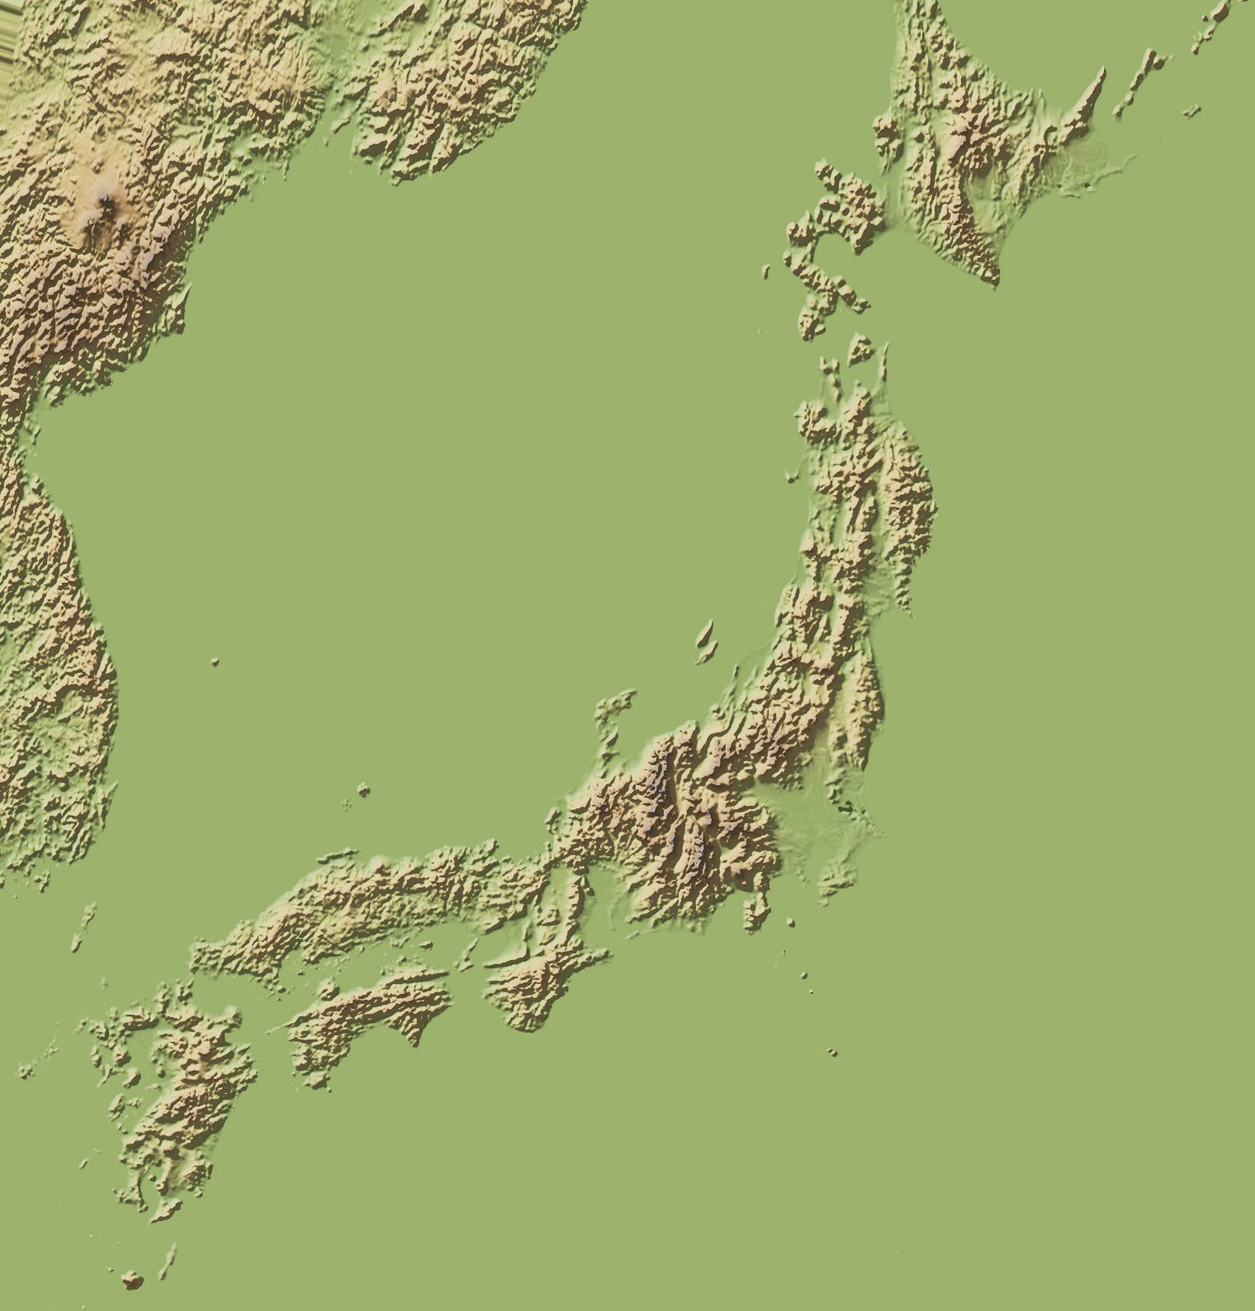
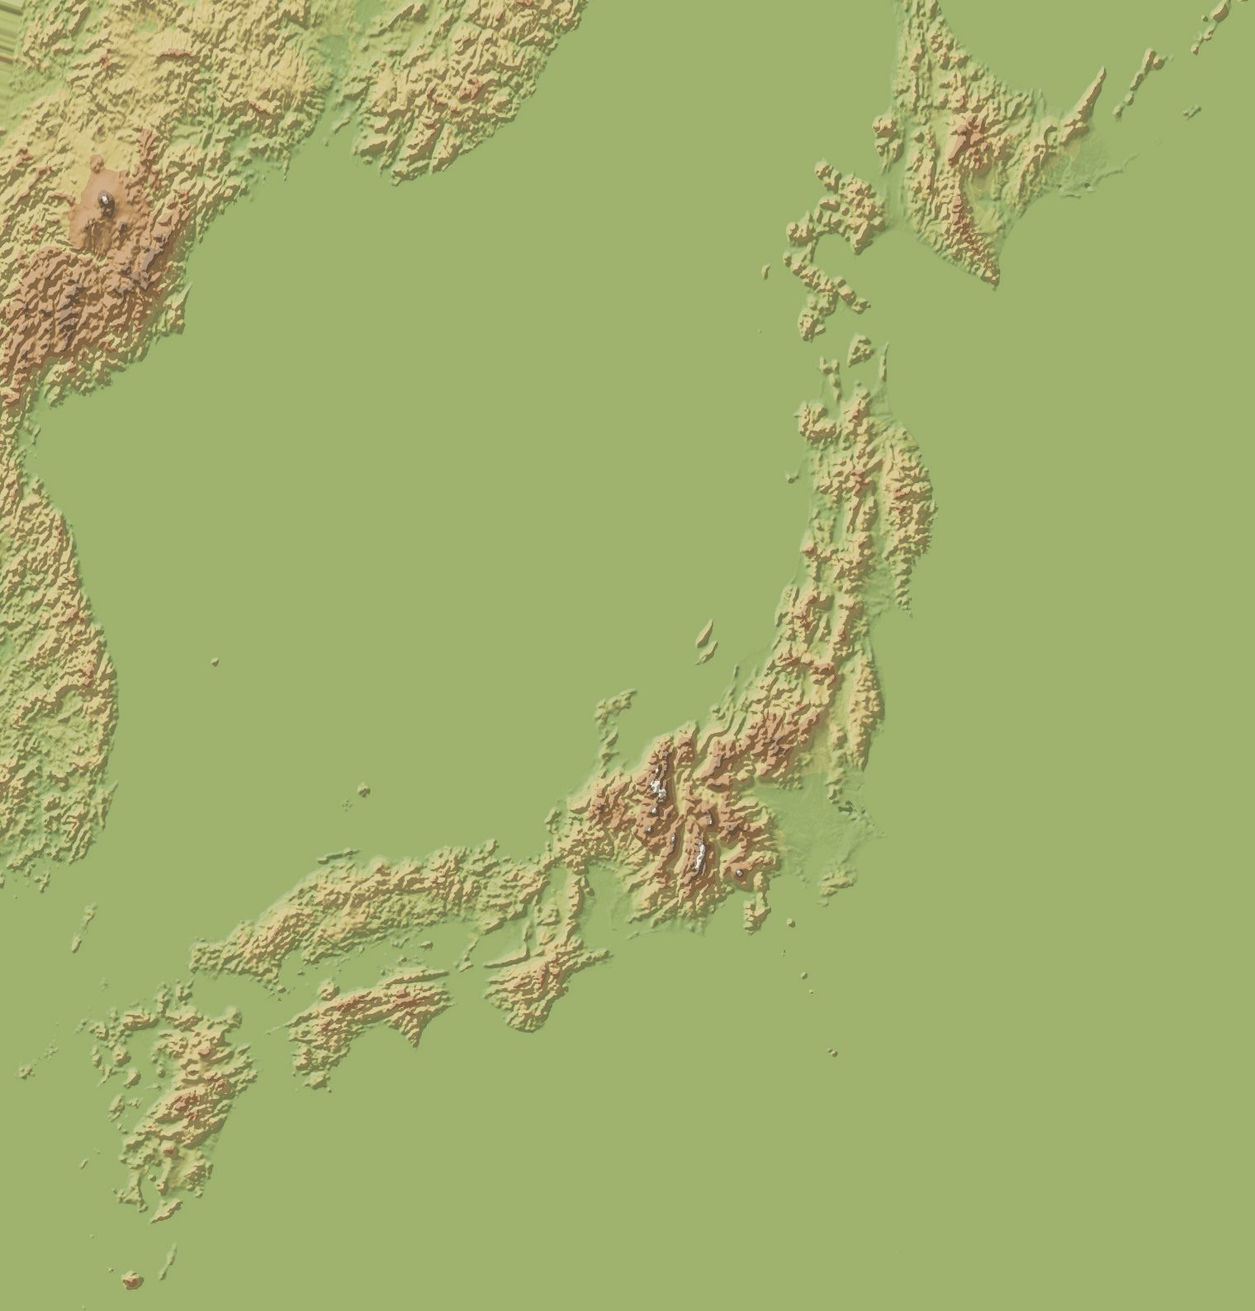
Review fixes: red only for war, kasuri finer, waves fixed on screen, Hokkaido framed, crest/label collisions, banded terrain with the weave
Claude-Session: https://claude.ai/code/session_01QoBUQRnQ7o4mLERGEaToC2

diff --git a/app.js b/app.js
@@ -58,29 +58,30 @@
     const key = h.map(x => x || 'none').join('-');
     if (!splitIds.has(key)) {
       const id = 'split-' + key;
-      const W = 22, pat = el('pattern', { id, patternUnits: 'userSpaceOnUse', width: W, height: W, patternTransform: 'rotate(38)' }, defs);
+      const W = 14, pat = el('pattern', { id, patternUnits: 'userSpaceOnUse', width: W, height: W, patternTransform: 'rotate(38)' }, defs);
       el('rect', { width: W, height: W, fill: `url(#dye-${h[0] || 'none'})` }, pat);
-      // each band of threads was dyed out of register: the edge jumps sideways every few threads, and a half-dyed
-      // feather runs past it, the blur that gives kasuri its name
-      const L = [0, 2.6, .8, 3.2, 1.4, 2.9, .3, 2], R = [1.8, 0, 3, 1, 2.4, .5, 3.2, 1.2], step = W / 8;
+      // each band of threads was dyed out of register: short broken dashes whose ends jump sideways from thread to
+      // thread, with a half-dyed feather past them, the blur that gives kasuri its name
+      const L = [0, 1.6, .5, 2.1, .9, 1.8, .2, 1.3], R = [1.1, 0, 1.9, .6, 1.5, .3, 2, .8], GAP = [-1, 3, -1, -1, 2, -1, 4, -1], step = W / 8;
       let d = '', f = '';
       for (let i = 0; i < 8; i++) {
-        const y0 = i * step, y1 = y0 + step + .03, l = 9.5 + L[i], r = 19.5 + R[i];
-        d += `M${l} ${y0}H${r}V${y1}H${l}Z`;
-        f += `M${l - 1.6} ${y0 + step * .3}H${l}V${y0 + step * .7}H${l - 1.6}ZM${r} ${y0 + step * .2}H${r + 1.8}V${y0 + step * .6}H${r}Z`;
+        const y0 = i * step, y1 = y0 + step + .03, l = 5.5 + L[i], r = 12 + R[i], g = GAP[i];
+        d += g < 0 ? `M${l} ${y0}H${r}V${y1}H${l}Z` : `M${l} ${y0}H${l + g}V${y1}H${l}ZM${l + g + 1.2} ${y0}H${r}V${y1}H${l + g + 1.2}Z`;
+        f += `M${l - 1.1} ${y0 + step * .3}H${l}V${y0 + step * .7}H${l - 1.1}ZM${r} ${y0 + step * .2}H${r + 1.2}V${y0 + step * .6}H${r}Z`;
       }
       el('path', { d: f, fill: `url(#dye-${h[1] || 'none'})`, opacity: .55 }, pat);
       el('path', { d, fill: `url(#dye-${h[1] || 'none'})` }, pat);
+      el('rect', { width: W, height: W, fill: '#e2d9c5', opacity: .16 }, pat); // the two dyes taken partway back toward cotton
       splitIds.set(key, `url(#${id})`);
     }
     return splitIds.get(key);
   }
   // crests come as black drawings; this keeps their dark parts as cream cotton the dye never reached
   {
-    const f = el('filter', { id: 'resist', 'color-interpolation-filters': 'sRGB' }, defs);
+    const f = el('filter', { id: 'resist', x: 0, y: 0, width: 1, height: 1, 'color-interpolation-filters': 'sRGB' }, defs);
     el('feColorMatrix', { type: 'matrix', values: '0 0 0 0 .937  0 0 0 0 .902  0 0 0 0 .827  -.33 -.33 -.33 1 0' }, f);
     // for crests drawn white on a dark ground: only the light parts resist; green alone keeps grey figures and drops coloured grounds like Mori's red
-    const g = el('filter', { id: 'resist-inv', 'color-interpolation-filters': 'sRGB' }, defs);
+    const g = el('filter', { id: 'resist-inv', x: 0, y: 0, width: 1, height: 1, 'color-interpolation-filters': 'sRGB' }, defs);
     el('feColorMatrix', { type: 'matrix', values: '0 0 0 0 .937  0 0 0 0 .902  0 0 0 0 .827  0 2.2 0 0 -.45' }, g);
     // for crests cut as holes in a dark square: the holes resist; the region stops at the image's own box
     const h = el('filter', { id: 'resist-holes', x: 0, y: 0, width: 1, height: 1, 'color-interpolation-filters': 'sRGB' }, defs);
@@ -177,6 +178,11 @@
 
   // ---------- zoom and pan ----------
   const HOME = (v => ({ x: v.x, y: v.y, width: v.width, height: v.height }))(svg.viewBox.baseVal);
+  const HIST_HOME = { ...HOME }, LAND_HOME = (() => { // the realm plus all of Ezo, so Sapporo and Shiretoko are in view
+    const a = land.getBBox(), b = ezo.getBBox(), y = Math.min(a.y, b.y) - 24, y1 = a.y + a.height + 30;
+    const h = y1 - y, w = Math.max(HOME.width, h * HOME.width / HOME.height);
+    return { x: HOME.x + HOME.width - w, y, width: w, height: h };
+  })();
   const vb = { x: HOME.x, y: HOME.y, w: HOME.width, h: HOME.height };
   let zoom = 1, repaintQueued = false;
   const MAX_ZOOM = 6;
@@ -188,6 +194,7 @@
     svg.setAttribute('viewBox', `${vb.x} ${vb.y} ${vb.w} ${vb.h}`);
     zoom = HOME.width / vb.w;
     document.body.classList.toggle('zoomed', zoom > 1.05);
+    $('#seigaiha').setAttribute('patternTransform', `scale(${1 / zoom})`); // the waves keep their size on screen
     if (!repaintQueued) { repaintQueued = true; requestAnimationFrame(() => { repaintQueued = false; paintStitches(); paintBattles(); paintCastles(); paintLandmarks(); paintLabels(); }); }
   }
   function zoomAt(f, cx, cy) {
@@ -365,18 +372,21 @@
     if (landMode) { // landmark names beside their marks once there is room, then the provinces
       const mk = 6.5 * markScale();
       const pts = LANDMARKS.map(l => [l, lmAt(l)]), isCity = ([l]) => l.kind === 'city';
-      const box = ([, [x, y]]) => ({ x: x - mk, y: y - mk, width: mk * 2, height: mk * 2 });
+      const box = ([l, [x, y]]) => { const m = mk * (sel?.type === 'landmark' && sel.id === l.id ? 1.5 : 1); return { x: x - m, y: y - m, width: m * 2, height: m * 2 }; };
+      const r = svg.getBoundingClientRect(), v0 = toMap(r.left, r.top), v1 = toMap(r.right, r.bottom); // what is on screen
+      const inView = b => b.x >= v0.x && b.y >= v0.y && b.x + b.width <= v1.x && b.y + b.height <= v1.y;
+      const narrow = r.width < 600;
       // the cities are always named, in English and kanji, and may cover a smaller mark's corner; the rest once there is room
       const others = pts.filter(q => !isCity(q)).map(box);
       for (const q of pts.filter(isCity)) placed.push(box(q));
       const label = ([l, [x, y]], strictness) => {
-        const city = l.kind === 'city', fs = (city ? 13.5 : 12) / scale, gap = mk + 2 / scale;
+        const city = l.kind === 'city', fs = (city ? (narrow ? 11 : 13.5) : narrow ? 10.5 : 12) / scale, gap = mk + 2 / scale;
         for (const strict of strictness) for (const [dx, dy, anchor] of [[gap, 0, 'start'], [-gap, 0, 'end'], [0, -gap - fs * .4, 'middle'], [0, gap + fs * .9, 'middle']]) {
           const t = el('text', { class: 'prov-label lm-label' + (city ? ' city-label' : ''), x: x + dx, y: y + dy + fs * .35, 'text-anchor': anchor, 'font-size': fs, 'stroke-width': fs * (city ? .24 : .3) }, labels);
           t.textContent = l.en;
           if (city) { const j = el('tspan', { 'font-size': fs * .82, dx: fs * .3, 'font-weight': 400 }, t); j.textContent = l.ja; }
           const b = t.getBBox();
-          if (!placed.some(p => hits(b, p)) && !(strict && others.some(p => hits(b, p)))) { placed.push(b); if (!strict) over.push(b); return; }
+          if (inView(b) && !placed.some(p => hits(b, p)) && !(strict && others.some(p => hits(b, p)))) { placed.push(b); if (!strict) over.push(b); return; }
           t.remove();
         }
       };
@@ -393,6 +403,7 @@
       return;
     }
     paintCrests(st, realm0());
+    for (const c of crestsG.children) placed.push(c.getBBox());
     const mk = 7 * markScale();
     for (const b of [...battles.children, ...castlesG.children]) { const [, x, y] = b.getAttribute('transform').match(/([-\d.]+) ([-\d.]+)/).map(Number); placed.push({ x: x - mk, y: y - mk, width: mk * 2, height: mk * 2 }); }
     for (const s of stitches.querySelectorAll('.stitch:not(.under)')) {
@@ -466,11 +477,11 @@
     for (const e of EVENTS) {
       if (e.year > year || year - e.year > 3) continue;
       const age = year - e.year, [X, Y] = markAt(e);
-      const g = el('g', { class: 'battle' + (age === 0 ? ' now' : '') + (sel?.type === 'event' && sel.id === e.id ? ' sel' : ''), transform: `translate(${X} ${Y}) scale(${markScale()})`, opacity: [1, .75, .55, .4][age], tabindex: 0, role: 'button', 'aria-label': `${e.en}, ${e.year}` }, battles);
+      const g = el('g', { class: 'battle' + (e.kind === 'battle' ? '' : ' turn') + (age === 0 ? ' now' : '') + (sel?.type === 'event' && sel.id === e.id ? ' sel' : ''), transform: `translate(${X} ${Y}) scale(${markScale()})`, opacity: [1, .75, .55, .4][age], tabindex: 0, role: 'button', 'aria-label': `${e.en}, ${e.year}` }, battles);
       g.dataset.e = e.id;
       el('circle', { class: 'ring', r: 2 }, g);
       el('circle', { class: 'hit', r: 10 }, g);
-      g.insertAdjacentHTML('beforeend', stitchMark(e.kind === 'battle' ? 6 : 4.4));
+      g.insertAdjacentHTML('beforeend', eventMark(e, 6));
     }
   }
 
@@ -514,6 +525,10 @@
     }
   }
 
+  // red thread is only for war; other turning points are a knot of cotton thread
+  const warCls = e => (e.kind === 'battle' ? 'war' : 'turn');
+  const knotMark = s => `<path class="k-under" d="M0 ${-s}L${s} 0L0 ${s}L${-s} 0Z" stroke-width="${s * .55}"/><path class="k" d="M0 ${-s}L${s} 0L0 ${s}L${-s} 0Z" stroke-width="${s * .3}"/><circle r="${s * .28}" fill="#efe6d3"/>`;
+  const eventMark = (e, s) => (e.kind === 'battle' ? stitchMark(s) : knotMark(s * .8));
   // a cross-stitch in red thread: the top stitch whole, the under stitch broken where it passes beneath, a sheen on each
   function stitchMark(s) {
     const top = `M${-s} ${-s * .82}L${s} ${s * .9}`;
@@ -521,7 +536,8 @@
     const sheen = d => `<path d="${d}" stroke="#ffb29e" stroke-width="${s * .12}" stroke-linecap="round" opacity=".75" transform="translate(${-s * .08} ${-s * .08})"/>`;
     // where the thread goes down into the cloth: a small hole at each end of each stitch
     const holes = [[-s, -s * .82], [s, s * .9], [s * .92, -s], [-s * .88, s * .95]].map(([x, y]) => `<circle cx="${x}" cy="${y}" r="${s * .2}" fill="#13152f"/>`).join('');
-    return `<path class="x-under" d="${top}${under}" stroke-width="${s * .78}"/>` +
+    return `<path d="${top}${under}" stroke="#efe6d3" stroke-opacity=".5" stroke-linecap="round" fill="none" stroke-width="${s * 1.05}"/>` + // a pale halo so it never sinks into a red dye
+      `<path class="x-under" d="${top}${under}" stroke-width="${s * .78}"/>` +
       `<path class="x" d="${under}" stroke-width="${s * .42}" style="stroke:#b8402b"/>` +
       `<path class="x" d="${top}" stroke-width="${s * .42}"/>${sheen(top)}${holes}`;
   }
@@ -569,7 +585,7 @@
       ${year === 1868 ? '<p class="local">In 1868 the provinces are dyed by the side their domains took in the Boshin War.</p>' : ''}
       ${year >= 1871 ? '<p class="local">From 1871 the domains are gone: Japan is one state, governed through prefectures. The old provinces stay on the map as names.</p>' : ''}
       ${lives}
-      ${fallen.length ? `<p class="sep">Fallen, with the last year they held land <span lang="ja">滅亡</span></p><ol class="roster">${fallen.map(c => row(c, true)).join('')}</ol>` : ''}
+      ${fallen.length ? `<p class="sep">Fallen <span lang="ja">滅亡</span> · the last year they held land</p><ol class="roster">${fallen.map(c => row(c, true)).join('')}</ol>` : ''}
       <p class="note">Each province is dyed for the power that dominated it; many were shared among small lords, so this is an approximation. Click a province, a clan or a red cross for its story.<br><br>Province map: “Provinces of Japan with names” by Ash_Crow, Wikimedia Commons, CC BY 2.5. Typefaces: Shippori Mincho B1 and Zen Kaku Gothic New, SIL Open Font License.</p>`;
   }
   const lastHeldCache = {};
@@ -603,7 +619,7 @@
       <p class="sub">${p.born}–${p.died} · ${status}</p>
       <p class="lede">${esc(p.short)}</p>
       <button class="play-life" data-act="playlife"><svg viewBox="0 0 18 18" aria-hidden="true"><path d="M4 2.2v13.6L15.5 9z"/></svg>Play this life, ${Math.max(START, p.born)}–${Math.min(END, p.died)}</button>
-      <div class="block"><h4>His life <span lang="ja">生涯</span></h4><ul class="links">${p.life.map(([y, text, ev]) => `<li><button ${ev ? `data-event="${ev}"` : `data-year="${y}"`} class="${ev ? 'war ' : ''}${y <= year ? 'now' : ''}"><span class="y">${y}</span><span>${esc(text)}</span></button></li>`).join('')}</ul></div>
+      <div class="block"><h4>His life <span lang="ja">生涯</span></h4><ul class="links">${p.life.map(([y, text, ev]) => `<li><button ${ev ? `data-event="${ev}"` : `data-year="${y}"`} class="${ev ? warCls(EVENTS.find(x => x.id === ev)) + ' ' : ''}${y <= year ? 'now' : ''}"><span class="y">${y}</span><span>${esc(text)}</span></button></li>`).join('')}</ul></div>
       ${im ? `<p class="note">Portrait: ${esc(im.artist)} · ${esc(im.licence)} · Wikimedia Commons</p>` : ''}`;
   }
 
@@ -632,7 +648,7 @@
       <div class="long" hidden>${esc(k.long)}</div>
       <div class="block"><h4>Key people <span lang="ja">人物</span></h4><ul class="people">${k.people.map(([en, ja, life, note]) => `<li><b>${esc(en)}</b><span lang="ja">${ja}</span><span class="life">${life}</span><p>${esc(note)}</p>${followFor(en) ? `<button class="follow" data-follow="${followFor(en).id}">Follow this life</button>` : ''}</li>`).join('')}</ul></div>
       ${als.length ? `<div class="block"><h4>Alliances <span lang="ja">同盟</span></h4><ul class="links">${als.map(a => `<li><button data-year="${a[1]}" class="${a[1] <= year && year <= a[2] ? 'now' : ''}"><span class="y">${a[1]}</span><span>${esc(a[4])} <span lang="ja" style="color:var(--muted)">${a[5]}</span>, ${a[1]}–${a[2]}: ${esc(a[6])}</span></button></li>`).join('')}</ul></div>` : ''}
-      ${evs.length ? `<div class="block"><h4>Battles and turning points <span lang="ja">合戦</span></h4><ul class="links">${evs.map(e => `<li><button data-event="${e.id}" class="war"><span class="y">${e.year}</span><span>${esc(e.en)}</span></button></li>`).join('')}</ul></div>` : ''}
+      ${evs.length ? `<div class="block"><h4>Battles and turning points <span lang="ja">合戦</span></h4><ul class="links">${evs.map(e => `<li><button data-event="${e.id}" class="${warCls(e)}"><span class="y">${e.year}</span><span>${esc(e.en)}</span></button></li>`).join('')}</ul></div>` : ''}
       ${crestOf(c) ? `<p class="note">Crest: ${esc(crestOf(c).file.replace(/_/g, ' '))}${crestOf(c).artist ? ' by ' + esc(crestOf(c).artist) : ''} · ${esc(crestOf(c).licence)} · Wikimedia Commons</p>` : ''}`;
   }
 
@@ -648,7 +664,7 @@
       <ul class="links"><li><button data-year="${START}" class="${year >= START ? 'now' : ''}"><span class="y">${START}</span><span>${holderText(BASE[p])}${BASE_NOTES[p] ? '. ' + esc(BASE_NOTES[p]) : ''}</span></button></li>
       ${hist.map(x => `<li><button data-year="${x[0]}" class="${x[0] <= year ? 'now' : ''}"><span class="y">${x[0]}</span><span>${holderText(x[2])}${x[3] ? '. ' + esc(x[3]) : ''}</span></button></li>`).join('')}</ul></div>
       ${CASTLES.some(k => k.at === p) ? `<div class="block"><h4>Castles <span lang="ja">城</span></h4><ul class="links">${CASTLES.filter(k => k.at === p).map(k => `<li><button data-castle="${k.id}" class="${k.from <= year && year <= k.to ? 'now' : ''}"><span class="y">${k.from <= START ? 'older' : k.from}</span><span>${esc(k.en)} <span lang="ja" style="color:var(--muted)">${k.ja}</span></span></button></li>`).join('')}</ul></div>` : ''}
-      ${EVENTS.some(e => e.at === p) ? `<div class="block"><h4>Fought here <span lang="ja">合戦</span></h4><ul class="links">${EVENTS.filter(e => e.at === p).map(e => `<li><button data-event="${e.id}" class="war"><span class="y">${e.year}</span><span>${esc(e.en)}</span></button></li>`).join('')}</ul></div>` : ''}`;
+      ${EVENTS.some(e => e.at === p) ? `<div class="block"><h4>Fought here <span lang="ja">合戦</span></h4><ul class="links">${EVENTS.filter(e => e.at === p).map(e => `<li><button data-event="${e.id}" class="${warCls(e)}"><span class="y">${e.year}</span><span>${esc(e.en)}</span></button></li>`).join('')}</ul></div>` : ''}`;
     drawStrip(side.querySelector('canvas.strip'), p);
   }
 
@@ -656,7 +672,7 @@
     const e = EVENTS.find(x => x.id === id), era = eraOf(e.year, ERAS);
     const sides = [...new Set((e.sides || []).filter(Boolean))];
     side.innerHTML = `${back()}
-      <div class="head"><svg class="swatch mark" viewBox="-20 -20 40 40" aria-hidden="true" style="box-shadow:none">${stitchMark(13)}</svg><h3>${esc(e.en)}<span lang="ja">${e.ja}</span></h3></div>
+      <div class="head"><svg class="swatch mark" viewBox="-20 -20 40 40" aria-hidden="true" style="box-shadow:none">${eventMark(e, 13)}</svg><h3>${esc(e.en)}<span lang="ja">${e.ja}</span></h3></div>
       ${plate('event:' + e.id)}
       <p class="sub">${e.year} · ${era.en} ${era.n} · ${esc(P[e.at].en)} <span lang="ja">${P[e.at].ja}</span></p>
       ${sides.length ? `<div class="sides">${sides.map(c => `<button class="chip" data-clan="${c}">${swatch(c)}${clanName(c)}${e.winner === c ? '<span class="won">Won</span>' : ''}</button>`).join('')}</div>` : ''}
@@ -742,7 +758,7 @@
       ${plate('landmark:' + l.id)}
       <p class="sub">${KINDS[l.kind].one}${lmProvince(l) ? ' · ' + lmProvince(l) : ''}${l.pop ? ` · population ${esc(l.pop)}, 2020` : ''}</p>
       <p class="lede">${esc(l.short)}</p>
-      ${here.length ? `<div class="block"><h4>History in ${esc(P[p].en)}</h4><ul class="links">${here.map(e => `<li><button data-event="${e.id}" class="war"><span class="y">${e.year}</span><span>${esc(e.en)}</span></button></li>`).join('')}</ul></div>` : ''}`;
+      ${here.length ? `<div class="block"><h4>History in ${esc(P[p].en)}</h4><ul class="links">${here.map(e => `<li><button data-event="${e.id}" class="${warCls(e)}"><span class="y">${e.year}</span><span>${esc(e.en)}</span></button></li>`).join('')}</ul></div>` : ''}`;
   }
 
   // the switch between the two maps
@@ -754,6 +770,7 @@
     $('#mode-history').setAttribute('aria-pressed', !landMode);
     $('#mode-land').setAttribute('aria-pressed', landMode);
     svg.setAttribute('aria-label', landMode ? 'Japan\'s landmarks over the shape of the land' : 'The provinces of Japan, dyed by who held them');
+    Object.assign(HOME, landMode ? LAND_HOME : HIST_HOME); zoomHome();
     paintWhen(); refresh(); side.scrollTop = 0;
     requestAnimationFrame(() => { // the band comes and goes, so the map has resized
       if (!landMode) { drawWeave(); tidyBand(); }

diff --git a/index.html b/index.html
@@ -157,6 +157,12 @@ body.started #start { opacity: 0; }
 .links .y { font: 500 .84rem/1.45 var(--gothic); color: var(--muted); font-variant-numeric: tabular-nums; }
 .links .now .y, .links .now { color: var(--cream); }
 .links .war .y::before { content: ''; display: inline-block; width: 6px; height: 6px; margin-right: 6px; background: var(--war); transform: rotate(45deg); vertical-align: 1px; }
+.links .turn .y::before { content: ''; display: inline-block; width: 5px; height: 5px; margin-right: 7px; border: 1.5px solid var(--cream); transform: rotate(45deg); vertical-align: 1px; }
+.battle .k, .mark .k { stroke: var(--cream); fill: none; stroke-linejoin: round; }
+.battle .k-under, .mark .k-under { stroke: var(--kachi); stroke-opacity: .85; fill: none; stroke-linejoin: round; }
+.battle:hover .k-under, .battle.sel .k-under { stroke: var(--cream); stroke-opacity: .45; }
+.battle.turn .ring { stroke: var(--cream); }
+@media (hover: none) { #tip { display: none; } } /* on touch the panel tells the story; a tooltip would only cover names */
 .sides { display: flex; flex-wrap: wrap; gap: 6px 12px; margin-top: 1rem; }
 .chip { display: inline-flex; align-items: center; gap: 8px; font: 400 .95rem/1.2 var(--mincho); padding: 3px 8px 3px 3px; border-radius: 3px; }
 .chip:hover { background: rgba(239, 230, 211, .06); }
@@ -257,6 +263,10 @@ body.land .prov use { stroke: var(--kon); stroke-opacity: .16; }
 body.land .prov:hover use { stroke-opacity: .4; stroke-width: 1.2; }
 body.land .prov.dim { opacity: 1; }
 body.land #mottle { opacity: .35; }
+/* the cloth's weave over the land too, so the atlas reads as dyed cotton */
+body.land #cloth::after { content: ''; position: absolute; inset: 0; pointer-events: none; z-index: 1; mix-blend-mode: multiply;
+  background: repeating-linear-gradient(0deg, rgba(19, 21, 47, .07) 0 1px, transparent 1px 3px), repeating-linear-gradient(90deg, rgba(19, 21, 47, .06) 0 1px, transparent 1px 3px); }
+#when, #zoom, #mode, #tip, #flash { z-index: 2; }
 body.land #year [lang=ja] { letter-spacing: .06em; }
 .landmark { cursor: pointer; }
 .landmark .hit { fill: transparent; }

diff --git a/data/history.js b/data/history.js
@@ -27,8 +27,8 @@ const PHASES = [
 
 // dye: natural dye name; motif: the stencil pattern printed over it. Each pair is used once.
 const DYES = {
-  fuji: '#9a86c0', matsuba: '#3d7a58', bengara: '#a8452f', kaki: '#c06a2c', uguisu: '#8c8a3a', suo: '#8e3a5c',
-  beni: '#cf6f80', asagi: '#4f9cab', yamabuki: '#dc9a2a', kihada: '#d8c75e', akane: '#9a2638', tobi: '#7d5038',
+  fuji: '#9a86c0', matsuba: '#3d7a58', bengara: '#93412f', kaki: '#c06a2c', uguisu: '#8c8a3a', suo: '#8e3a5c',
+  beni: '#cf6f80', asagi: '#4f9cab', yamabuki: '#dc9a2a', kihada: '#d8c75e', akane: '#82263a', tobi: '#7d5038',
   murasaki: '#6a4a92', yomogi: '#6f8f4a', kariyasu: '#c8a43a',
   kuchiba: '#b5874a', shikon: '#5a3f7a', hiwa: '#a5b04f', ume: '#b0607a',
 };

diff --git a/tools/terrain.py b/tools/terrain.py
@@ -1,4 +1,4 @@
-"""Colours the land by height for the landmarks view, the way a physical atlas does, in Japanese dye colours, shaded
+"""Colours the land by height for the landmarks view, the way a physical atlas does, in bands of Japanese dye colours, shaded
 with images/relief.jpg. Heights come from the open Terrain Tiles on AWS (Mapzen's Terrarium tiles: SRTM, GMTED2010,
 ETOPO1 and other public data), downloaded once into a cache folder.
 Writes images/terrain.jpg on the same grid as the relief (data/relief.js gives its placement).
@@ -11,9 +11,10 @@ ROOT = os.path.join(os.path.dirname(os.path.abspath(__file__)), "..")
 Z = 7  # about 100 px per degree, a little finer than the map needs
 TILE = "https://s3.amazonaws.com/elevation-tiles-prod/terrarium/{z}/{x}/{y}.png"
 LON0, LON1, LAT0, LAT1 = 126.0, 148.0, 29.0, 47.0
-# height (m) -> colour: moegi lowlands, hiwa and kariyasu hills, ōdo uplands, kurumi and nibi mountains, snow at the top
-RAMP = [(0, "#9db26c"), (150, "#b3bd74"), (400, "#cbc17e"), (800, "#d2b77c"), (1300, "#bf9a66"),
-        (1900, "#9a7a58"), (2500, "#8a7d72"), (3000, "#d9d2c4"), (3800, "#f3eee4")]
+# height bands, each one flat dye as in a stencil-dyed map: moegi plains, hiwa and kariyasu hills, kaki-shibu uplands,
+# kurumi mountains, bare cotton on the high peaks. (lower edge in metres, colour)
+BANDS = [(-1e9, "#9fb26e"), (100, "#b6bb73"), (400, "#d0bf7c"), (900, "#c49a68"), (1600, "#9d7c5a"), (2150, "#e8e0cf")]
+SHADE = .6  # how much of the relief's light and shadow to keep
 
 
 def tile_xy(lon, lat):
@@ -38,10 +39,10 @@ def mosaic(cache):
     return out, xs[0], ys[0]
 
 
-def ramp(h):
-    hs = np.array([r[0] for r in RAMP], np.float32)
-    cs = np.array([[int(c[i:i + 2], 16) for i in (1, 3, 5)] for _, c in RAMP], np.float32)
-    return np.stack([np.interp(h, hs, cs[:, k]) for k in range(3)], -1)
+def bands(h):
+    edges = np.array([b[0] for b in BANDS[1:]], np.float32)
+    cs = np.array([[int(c[i:i + 2], 16) for i in (1, 3, 5)] for _, c in BANDS], np.float32)
+    return cs[np.digitize(h, edges)]
 
 
 def main(cache):
@@ -58,9 +59,12 @@ def main(cache):
     u = np.clip(((lon + 180) / 360 * n - tx0) * 256, 0, elev.shape[1] - 1).astype(int)
     v = np.clip(((1 - np.arcsinh(np.tan(np.radians(lat))) / np.pi) / 2 * n - ty0) * 256, 0, elev.shape[0] - 1).astype(int)
     h = np.maximum(elev[v, u], 0)
+    for _ in range(2):  # soften the heights a little so the band edges run smooth instead of in stair-steps
+        p = np.pad(h, 2, mode="edge")
+        h = sum(p[i:i + h.shape[0], j:j + h.shape[1]] for i in range(5) for j in range(5)) / 25
     # the relief's level ground is 185: darker than that is shadow, lighter is a lit slope
-    k = np.clip(shade / 185, .45, 1.3)[..., None]
-    c = ramp(h)
+    k = (1 + (np.clip(shade / 185, .45, 1.3) - 1) * SHADE)[..., None]
+    c = bands(h)
     out = np.where(k < 1, c * k, c + (255 - c) * (k - 1) * 1.2)
     path = os.path.join(ROOT, "images", "terrain.jpg")
     Image.fromarray(np.clip(out, 0, 255).astype(np.uint8)).save(path, "JPEG", quality=84, optimize=True, progressive=True)
